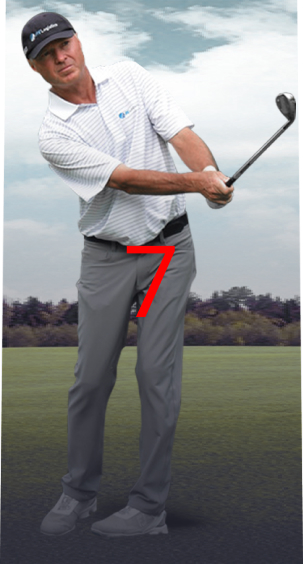
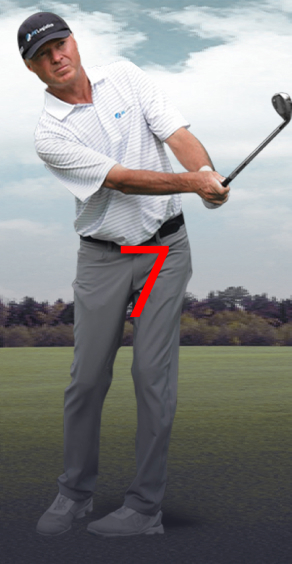
added breakpoints, added opacity for last slideOrderNuber slides

diff --git a/src/js/motion-carousel/Slide.js b/src/js/motion-carousel/Slide.js
@@ -3,22 +3,37 @@ import * as THREE from 'three';
 import slidebgVertex from './shaders/slidebgVertex.glsl';
 import slidebgFragment from './shaders/slidebgFragment.glsl';
 
+import shadowVertex from './shaders/shadowVertex.glsl';
+import shadowFragment from './shaders/shadowFragment.glsl';
+
 export default class Slide {
 	constructor(generalManager, id, originalId) {
 		this.generalManager = generalManager;
 
 		this.id = id;
 		this.originalId = originalId;
+
+		this.handlers = {
+			resize: this.resize.bind(this),
+		};
+
+		this.generalManager.addListener('resize', this.handlers.resize);
 	}
 
 	create() {
-		this.geometry = new THREE.PlaneBufferGeometry(200, 350, 1, 1);
+		this.geometry = new THREE.PlaneBufferGeometry(1, 1, 1, 1);
 
 		this.material = new THREE.ShaderMaterial({
-			uniforms: { uImage: {} },
+			uniforms: {
+				uImage: {},
+				uScreenSize: { value: new THREE.Vector2() },
+				uBGSize: { value: new THREE.Vector2() },
+				uOpacity: {},
+			},
 			side: THREE.DoubleSide,
 			fragmentShader: slidebgFragment,
 			vertexShader: slidebgVertex,
+			transparent: true,
 		});
 
 		this.mesh = new THREE.Mesh(this.geometry, this.material);
@@ -26,30 +41,63 @@ export default class Slide {
 		this.mesh.userData.originalId = this.originalId;
 		this.generalManager.managers.three.scene.add(this.mesh);
 
-		this.shadowGeometry = new THREE.PlaneBufferGeometry(200, 250, 1, 1);
-		this.shadowMaterial = new THREE.MeshBasicMaterial({
-			color: 0x000000,
-			wireframe: false,
+		this.shadowGeometry = new THREE.PlaneBufferGeometry(1, 1, 1, 1);
+		this.shadowMaterial = new THREE.ShaderMaterial({
+			uniforms: {
+				uOpacity: {},
+			},
 			side: THREE.DoubleSide,
-			opacity: 0.1,
+			fragmentShader: shadowFragment,
+			vertexShader: shadowVertex,
 			transparent: true,
 		});
+
 		this.shadowMesh = new THREE.Mesh(this.shadowGeometry, this.shadowMaterial);
 		this.generalManager.managers.three.scene.add(this.shadowMesh);
 		this.shadowMesh.rotation.set(90 / (180 / Math.PI), 0, 0);
+
+		this.updateWidthHeight();
 	}
 
 	updateTexture(img) {
 		const texture = new THREE.Texture(img);
-		texture.needsUpdate = true;
 		this.material.uniforms.uImage.value = texture;
+		this.material.uniforms.uBGSize.value = new THREE.Vector2(texture.image.width, texture.image.height);
+		this.updateContainerUniform();
+		texture.needsUpdate = true;
 	}
 
-	updatePos(x, z, angle) {
+	updatePos(x, z, angle, opacity) {
 		this.mesh.position.set(x, 0, -z);
 		this.mesh.rotation.set(0, angle, 0);
 
-		this.shadowMesh.position.set(x, -200, -z + 125);
+		this.shadowMesh.position.set(
+			x,
+			-this.generalManager.state.slideHeight / 2 - this.generalManager.state.slideHeight / 20,
+			-z + this.generalManager.state.slideHeight / 2 / 1.3
+		);
 		this.shadowMesh.rotation.set(90 / (180 / Math.PI), 0, -angle);
+		this.material.uniforms.uOpacity.value = opacity;
+		this.shadowMaterial.uniforms.uOpacity.value = opacity;
+	}
+
+	updateContainerUniform() {
+		this.material.uniforms.uScreenSize.value = new THREE.Vector2(
+			this.generalManager.state.slideWidth,
+			this.generalManager.state.slideHeight
+		);
+	}
+
+	updateWidthHeight() {
+		this.mesh.scale.x = this.generalManager.state.slideWidth;
+		this.mesh.scale.y = this.generalManager.state.slideHeight;
+
+		this.shadowMesh.scale.x = this.generalManager.state.slideWidth;
+		this.shadowMesh.scale.y = this.generalManager.state.slideHeight / 1.3;
+	}
+
+	resize() {
+		this.updateWidthHeight();
+		this.updateContainerUniform();
 	}
 }

diff --git a/src/js/motion-carousel/GeneralManager.js b/src/js/motion-carousel/GeneralManager.js
@@ -68,7 +68,7 @@ export default class GeneralManager {
 			},
 			{
 				images: {
-					bg: { src: 'img/6.jpg', img: null },
+					bg: { src: 'img/7.jpg', img: null },
 				},
 				originalIndex: null,
 				shadowIndex: null,
@@ -76,7 +76,7 @@ export default class GeneralManager {
 			},
 			{
 				images: {
-					bg: { src: 'img/6.jpg', img: null },
+					bg: { src: 'img/8.jpg', img: null },
 				},
 				originalIndex: null,
 				shadowIndex: null,
@@ -84,7 +84,7 @@ export default class GeneralManager {
 			},
 			{
 				images: {
-					bg: { src: 'img/6.jpg', img: null },
+					bg: { src: 'img/9.jpg', img: null },
 				},
 				originalIndex: null,
 				shadowIndex: null,
@@ -92,7 +92,7 @@ export default class GeneralManager {
 			},
 			{
 				images: {
-					bg: { src: 'img/6.jpg', img: null },
+					bg: { src: 'img/10.jpg', img: null },
 				},
 				originalIndex: null,
 				shadowIndex: null,
@@ -100,45 +100,21 @@ export default class GeneralManager {
 			},
 			{
 				images: {
-					bg: { src: 'img/6.jpg', img: null },
+					bg: { src: 'img/11.jpg', img: null },
 				},
 				originalIndex: null,
 				shadowIndex: null,
 				slideManager: null,
 			},
-			{
-				images: {
-					bg: { src: 'img/6.jpg', img: null },
-				},
-				originalIndex: null,
-				shadowIndex: null,
-				slideManager: null,
-			},
-			{
-				images: {
-					bg: { src: 'img/6.jpg', img: null },
-				},
-				originalIndex: null,
-				shadowIndex: null,
-				slideManager: null,
-			},
-			{
-				images: {
-					bg: { src: 'img/6.jpg', img: null },
-				},
-				originalIndex: null,
-				shadowIndex: null,
-				slideManager: null,
-			},
-			// {
-			// 	images: {
-			// 		bg: { src: 'img/7.jpg', img: null },
-			// 	},
-			// 	originalIndex: null,
-			// 	shadowIndex: null,
-			// 	slideManager: null,
-			// },
 		];
+
+		this.settings = {
+			breakpoints: [
+				{ minWidth: 0, slideWidth: 145, slideHeight: 300, slideOrderNumberToOpacity: 2 },
+				{ minWidth: 600, slideWidth: 240, slideHeight: 512, slideOrderNumberToOpacity: 3 },
+				{ minWidth: 769, slideWidth: 300, slideHeight: 564, slideOrderNumberToOpacity: 4 },
+			],
+		};
 
 		this.state = {
 			isCreated: false,
@@ -148,6 +124,9 @@ export default class GeneralManager {
 			sliderPosition: null,
 			sliderPositionEase: null,
 			timelinePosition: null,
+			slideWidth: 200,
+			slideHeight: 350,
+			slideOrderNumberToOpacity: 3,
 		};
 
 		this.eventCallbacks = {
@@ -202,6 +181,7 @@ export default class GeneralManager {
 		this.state.time = 0;
 
 		this.updateWidthHeight();
+		this.checkBreakpoints();
 		this.addDefaultListeners();
 
 		this.eventCallbacks.create.forEach((callback) => callback());
@@ -275,8 +255,19 @@ export default class GeneralManager {
 		this.state._height = this.DOM.container.clientHeight;
 	}
 
+	checkBreakpoints() {
+		this.settings.breakpoints.forEach((breakpoint) => {
+			if (this.width >= breakpoint.minWidth) {
+				this.state.slideWidth = breakpoint.slideWidth;
+				this.state.slideHeight = breakpoint.slideHeight;
+				this.state.slideOrderNumberToOpacity = breakpoint.slideOrderNumberToOpacity;
+			}
+		});
+	}
+
 	resize() {
 		this.updateWidthHeight();
+		this.checkBreakpoints();
 
 		this.eventCallbacks.resize.forEach((callback) => callback(this.width, this.height));
 	}

diff --git a/src/js/motion-carousel/SlidesManager.js b/src/js/motion-carousel/SlidesManager.js
@@ -69,7 +69,9 @@ export default class SlidesManager {
 		if (this.generalManager.state.timelinePosition) this.generalManager.state.timelinePosition.pause();
 		const x =
 			this.generalManager.state.sliderPositionEase -
-			this.generalManager.slides[toSlideIndex].slideManager.mesh.position.x / 200 / this.generalManager.slides.length;
+			this.generalManager.slides[toSlideIndex].slideManager.mesh.position.x /
+				this.generalManager.state.slideWidth /
+				this.generalManager.slides.length;
 
 		const duration = 0.5;
 
@@ -94,12 +96,24 @@ export default class SlidesManager {
 			if (x < -0.5) x += 1;
 			if (x < -0.5) x += 1;
 			const z = Math.abs(x) ** 1.2;
-			if (index === 0) console.log(x * this.generalManager.slides.length); // opacity of slide
+
+			const orderNumber = Math.abs(x * this.generalManager.slides.length);
+			let opacity = 1;
+			if (
+				orderNumber >= this.generalManager.state.slideOrderNumberToOpacity &&
+				orderNumber < this.generalManager.state.slideOrderNumberToOpacity + 1
+			) {
+				opacity = 1 - (orderNumber % this.generalManager.state.slideOrderNumberToOpacity);
+			}
+			if (orderNumber >= this.generalManager.state.slideOrderNumberToOpacity + 1) {
+				opacity = 0;
+			}
 			const angle = Math.asin(x * 1.5);
 			slideManager.updatePos(
-				x * 200 * this.generalManager.slides.length,
-				z * 200 * this.generalManager.slides.length,
-				angle
+				x * this.generalManager.state.slideWidth * this.generalManager.slides.length,
+				z * this.generalManager.state.slideWidth * this.generalManager.slides.length,
+				angle,
+				opacity
 			);
 		});
 	}

diff --git a/src/js/motion-carousel/DragManager.js b/src/js/motion-carousel/DragManager.js
@@ -68,7 +68,7 @@ export default class DragManager {
 			this.generalManager.managers.three.renderer.domElement.style.cursor = 'pointer';
 		}
 		if (!this.getIsMouseIntersect()) {
-			this.generalManager.managers.three.renderer.domElement.style.cursor = 'pointer';
+			this.generalManager.managers.three.renderer.domElement.style.cursor = 'grabbing';
 		}
 	}
 
@@ -198,7 +198,8 @@ export default class DragManager {
 				.to(this.generalManager.state, { sliderPositionEase: x, duration, ease: Power3.easeInOut });
 		}
 
-		this.generalManager.state.sliderPositionEase += this.state.delta / (200 * this.generalManager.slides.length);
+		this.generalManager.state.sliderPositionEase +=
+			this.state.delta / (this.generalManager.state.slideWidth * this.generalManager.slides.length);
 		this.state.x1 = this.state.x2;
 		this.state.y1 = this.state.y2;
 	}
@@ -219,6 +220,7 @@ export default class DragManager {
 			this.state.isClicked = true;
 			this.state.delta = 0;
 			this.generalManager.slideClick(intersects[0].object.userData.id);
+			this.state.isDragStarted = false;
 		}
 	}
 }

diff --git a/src/js/motion-carousel/ThreeManager.js b/src/js/motion-carousel/ThreeManager.js
@@ -54,6 +54,7 @@ export default class ThreeManager {
 
 	resize(width, height) {
 		this.camera.aspect = width / height;
+		this.camera.fov = this.fov;
 		this.camera.updateProjectionMatrix();
 		this.renderer.setSize(width, height);
 	}

diff --git a/README.md b/README.md
@@ -1,4 +1,4 @@
-https://619c0b8763433684e798b7cf--motion-carousel.netlify.app
+https://619d14cd5195f539113856dd--motion-carousel.netlify.app
 
 #How to use
 
